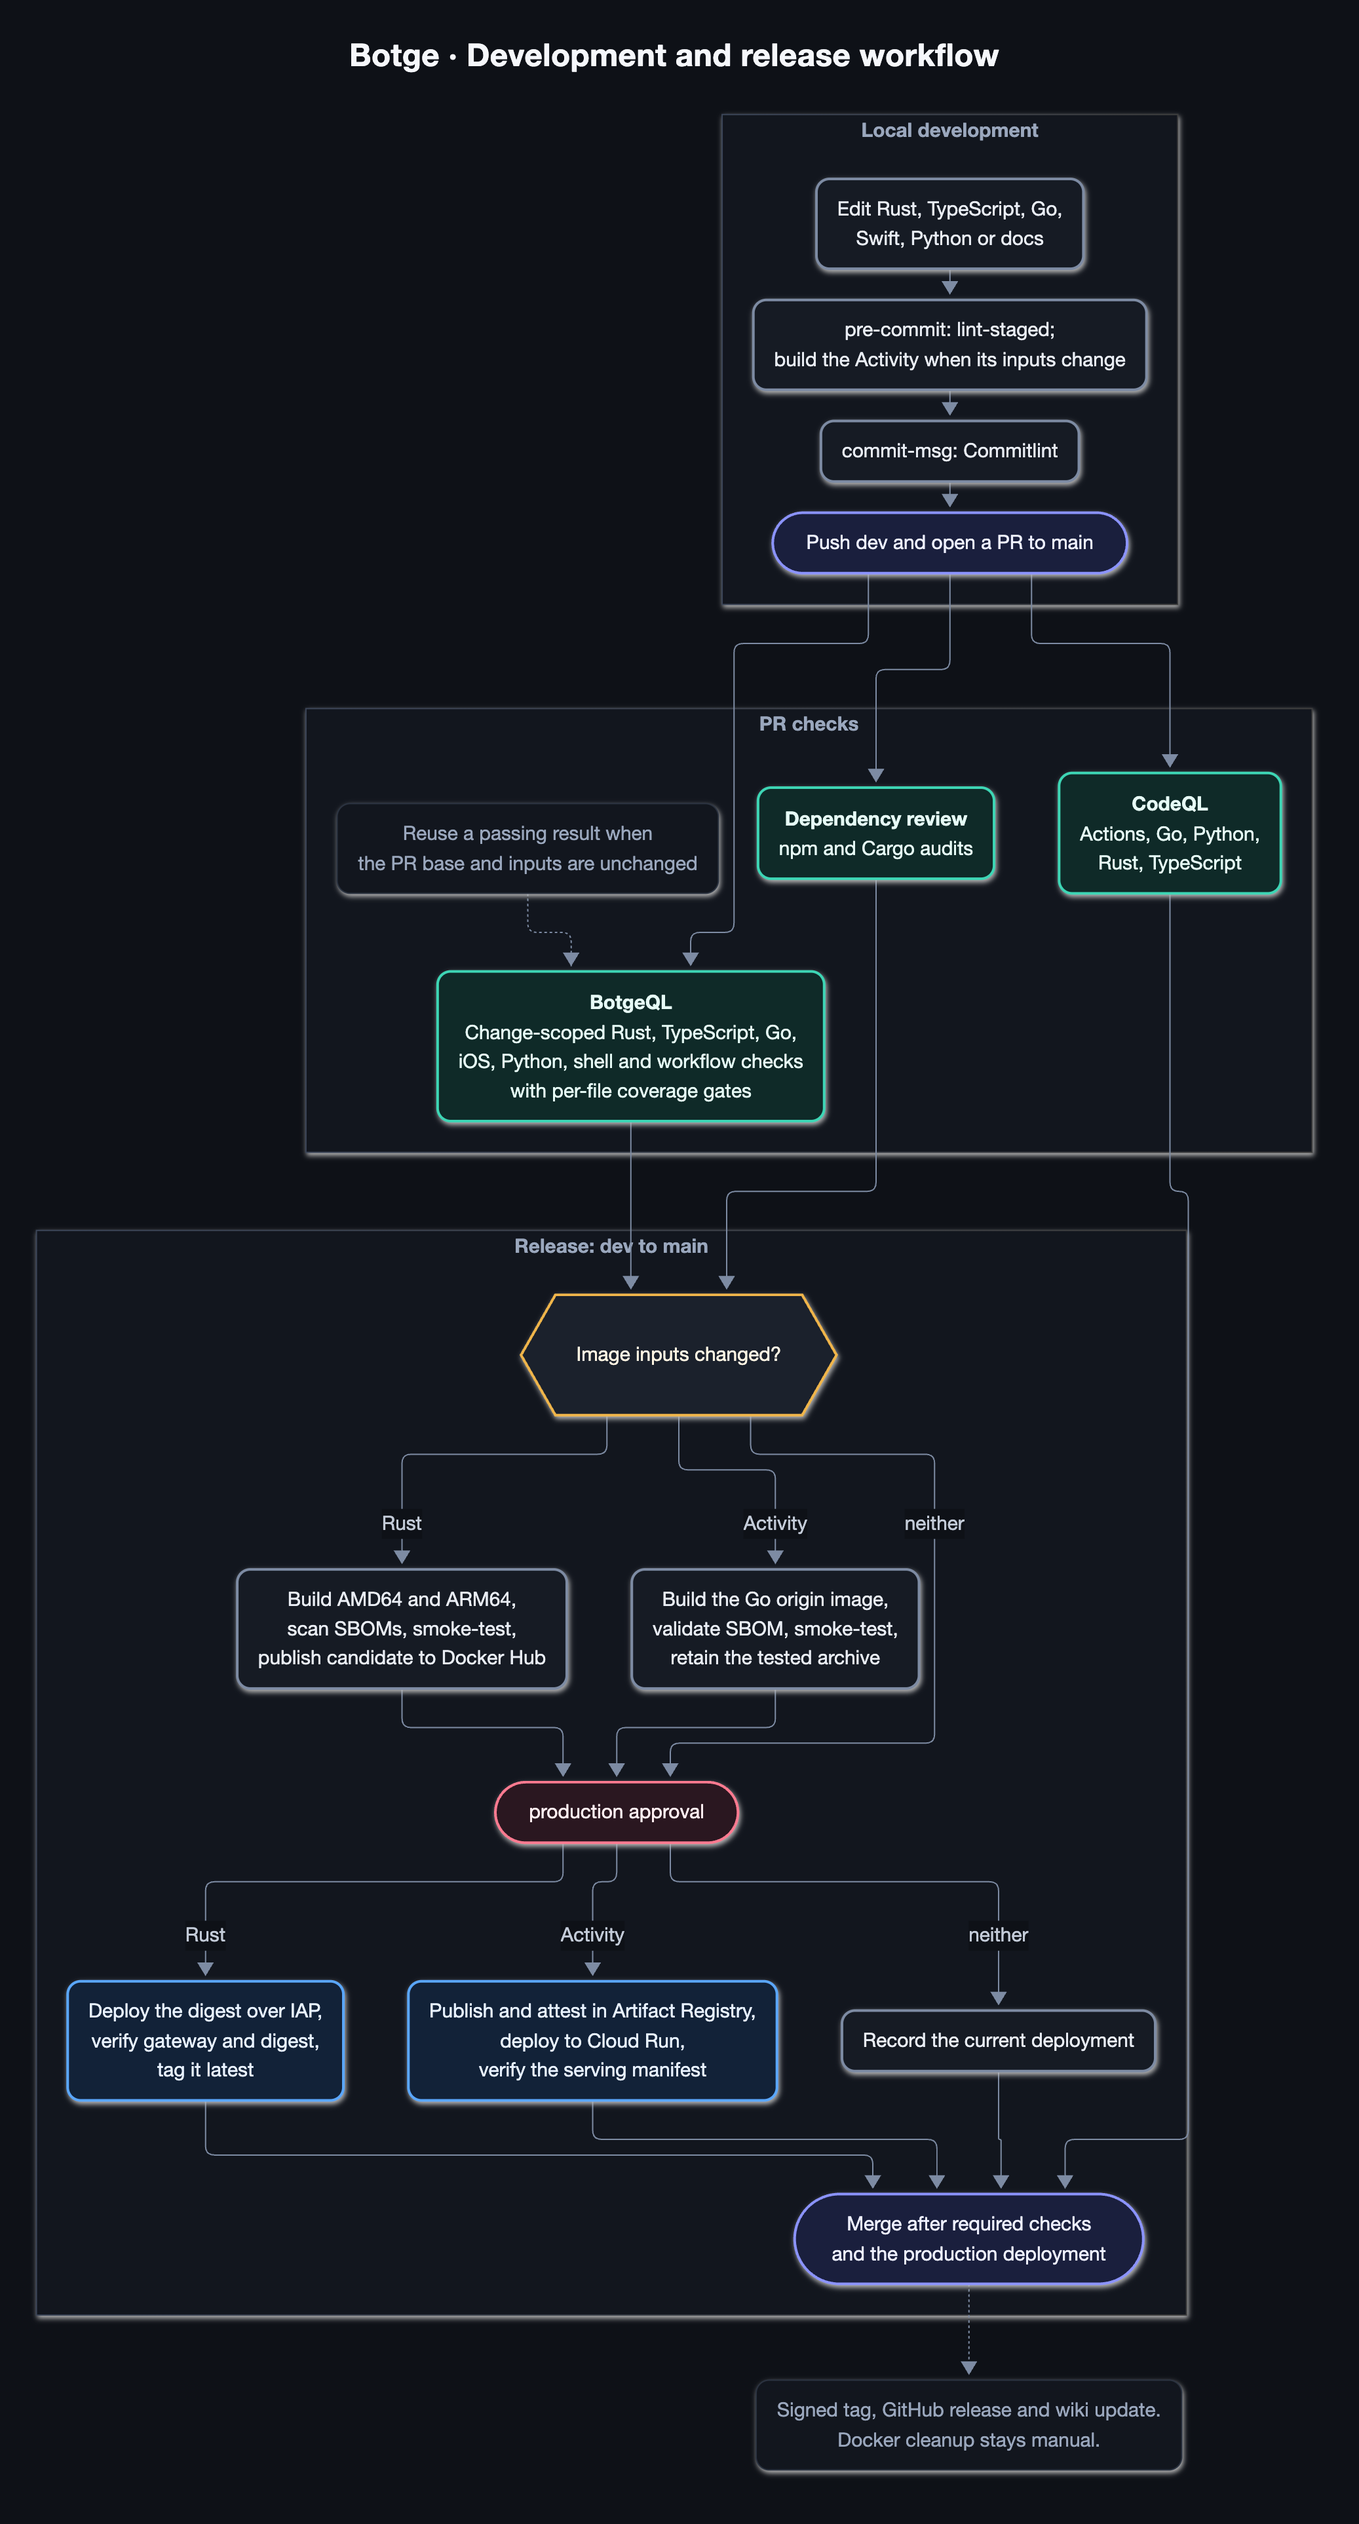
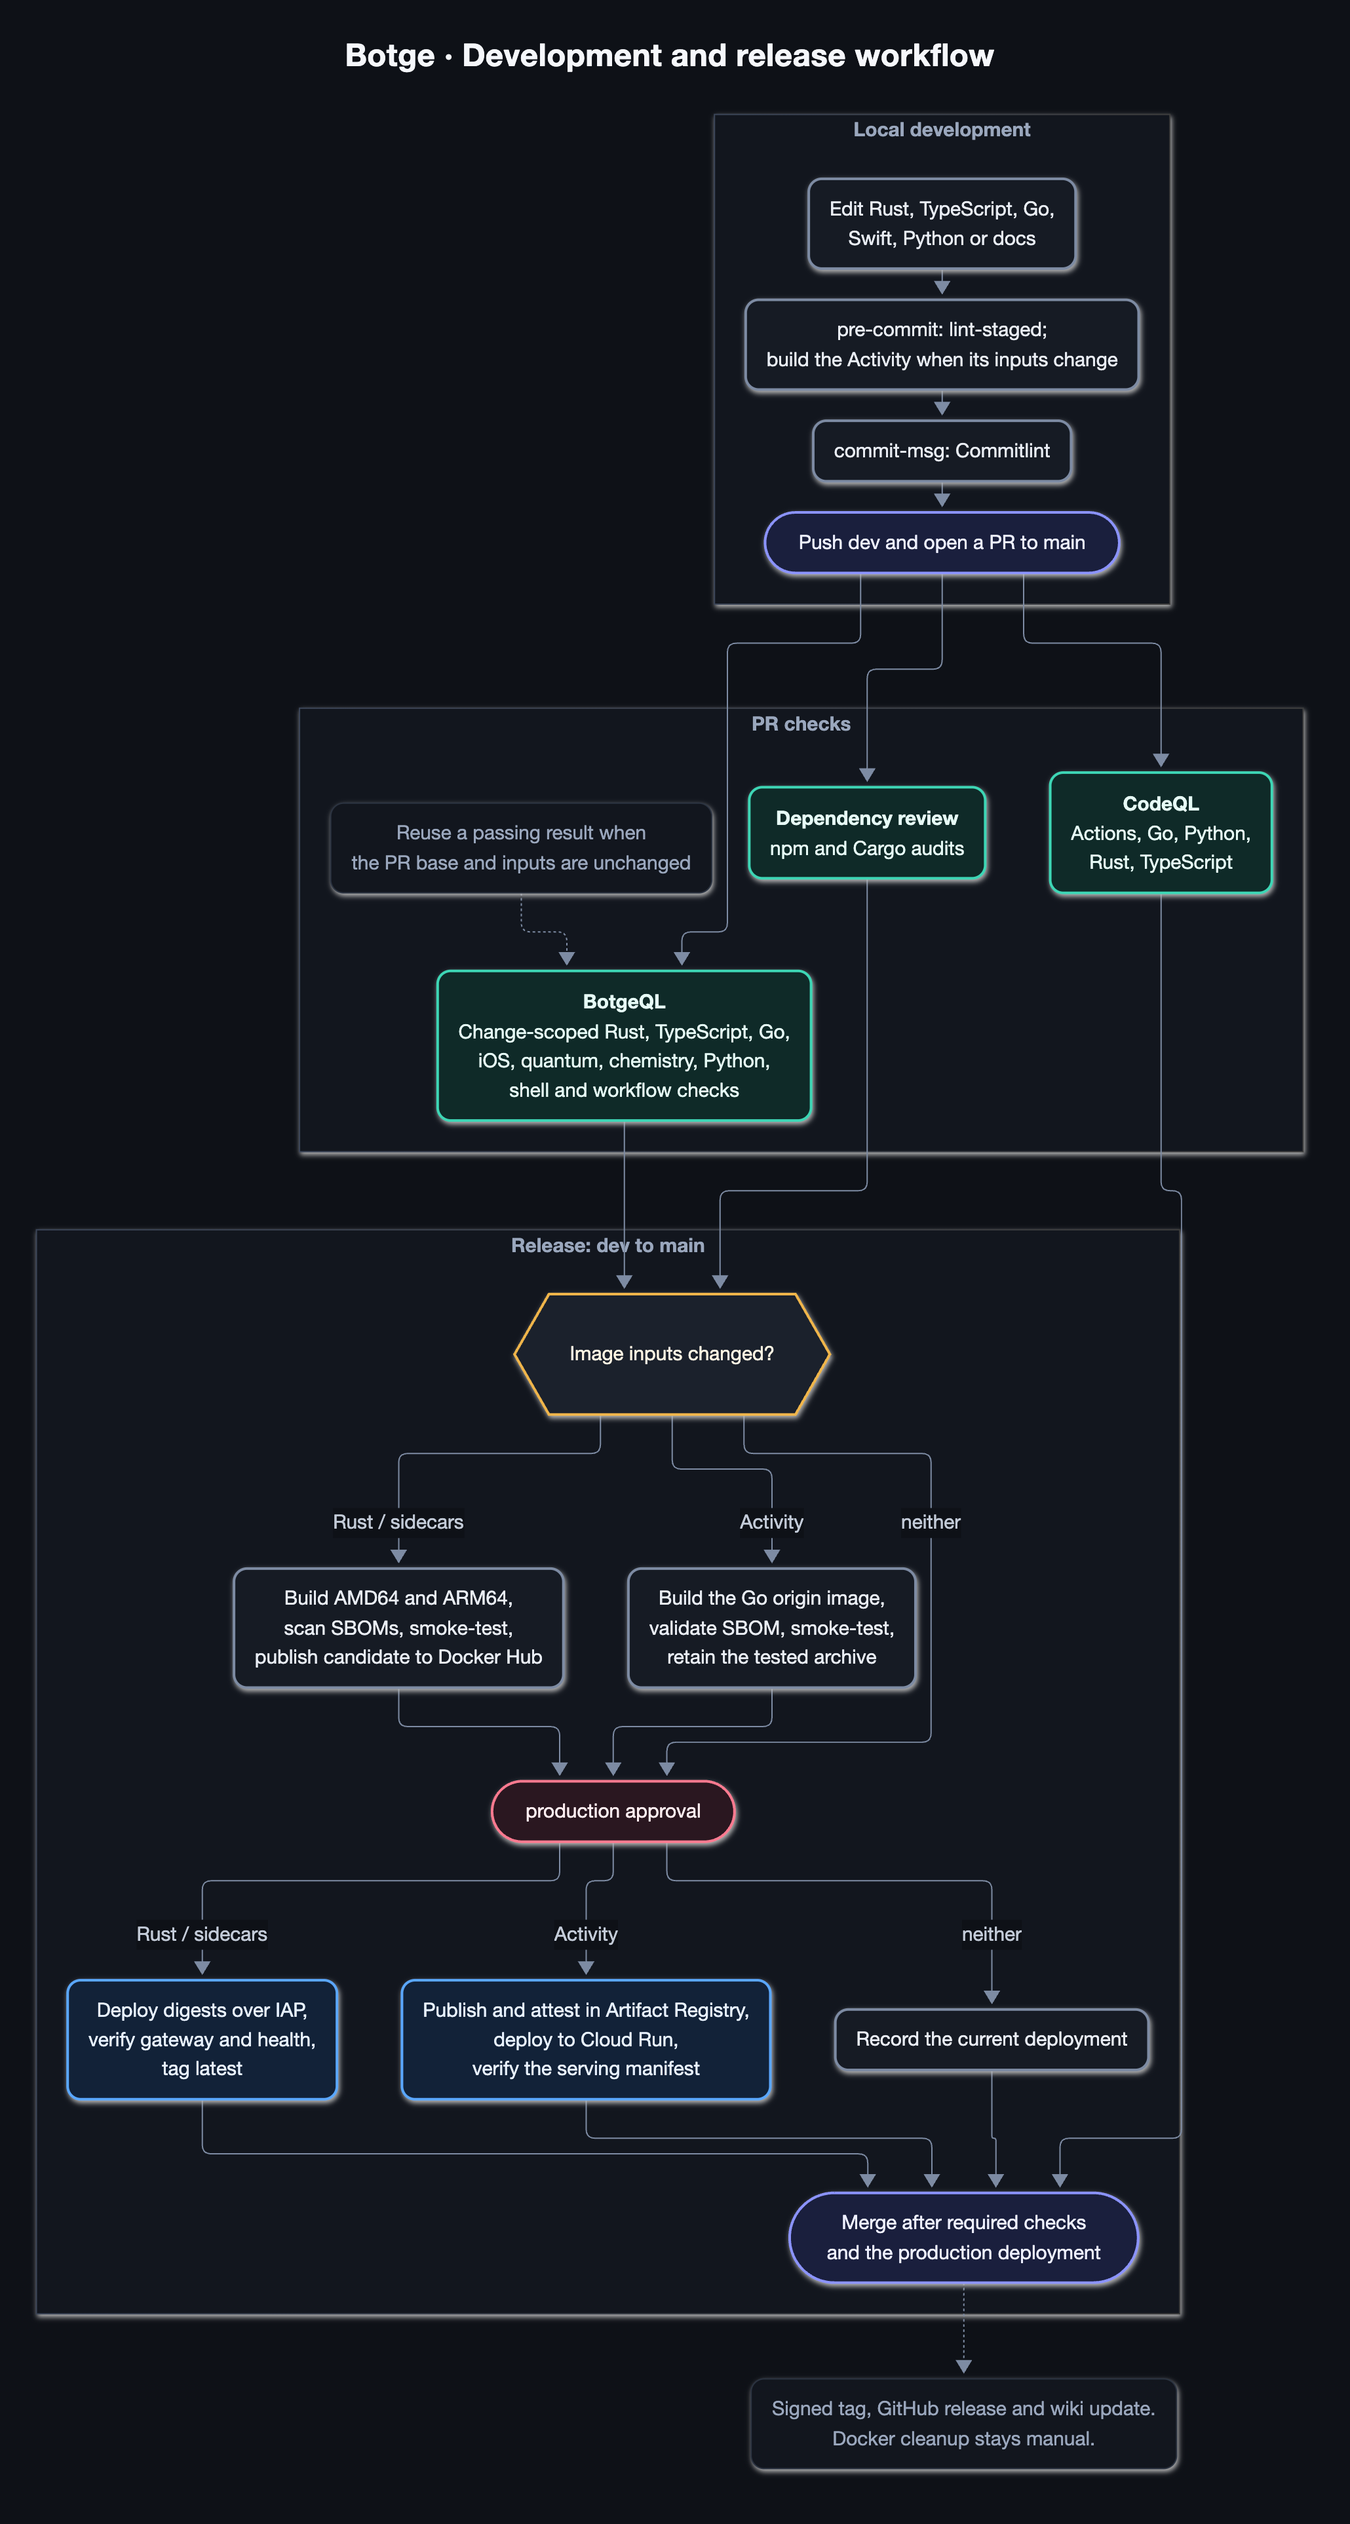
docs(chemistry): update README, guides, and architecture diagrams

diff --git a/docs/ARCHITECTURE.md b/docs/ARCHITECTURE.md
@@ -15,13 +15,13 @@ in [`mermaid.config.json`](diagrams/mermaid.config.json). Edit the source, then 
 - [Request and data flow](request-flow.png) ([source](diagrams/request-flow.mmd)): compositions, the
   Activity page and a settings save.
 - [Production topology](deployment.png) ([source](diagrams/deployment.mmd)): VM services, the
-  optional quantum sidecar, Cloud Run, Discord URL mappings and 7TV.
+  optional quantum and chemistry sidecars, Cloud Run, Discord URL mappings and 7TV.
 - [Development and release workflow](development-workflow.png)
   ([source](diagrams/development-workflow.mmd)): hooks, PR checks, approval and both deploy paths.
 - [Startup and shutdown](startup.png) ([source](diagrams/startup.mmd)): maintenance flags,
   initialization, readiness and exit.
 - [Discord event handling](discord-interactions.png) ([source](diagrams/discord-interactions.mmd)):
-  commands, `/quantum-emote`, autocomplete, modals and prefix messages.
+  commands, `/quantum-emote`, `/react-emote`, autocomplete, modals and prefix messages.
 
 Render every diagram from the repository root with the installed Chrome. `--ignore-scripts` skips
 Puppeteer's browser download, and the Puppeteer configuration widens the layout viewport:
@@ -72,13 +72,20 @@ The larger services separate their internal responsibilities into child modules:
 
 - [`commands.rs`](../crates/botge-discord/src/commands.rs) dispatches to
   [`commands/`](../crates/botge-discord/src/commands/): composition, message prefixes, autocomplete,
-  shortcuts, registration, cleanup, and `/quantum-emote`.
+  shortcuts, registration, cleanup, `/quantum-emote`, and `/react-emote`.
 - [`quantum.rs`](../crates/botge-discord/src/commands/quantum.rs) registers only when
   `BOTGE_QUANTUM_URL` is set. It defers, slices the catalog with
   [`botge-quantum`](../crates/botge-quantum/src/lib.rs), asks the Q# sidecar
   ([quantum guide](../quantum/README.md)) for one accepted shot outside the render permit, and
   renders the drawn pair through `Application::compose_selected`. A failure deletes the deferred
   reply and explains itself ephemerally; nothing is retried or replaced by classical randomness.
+- [`chemistry.rs`](../crates/botge-discord/src/commands/chemistry.rs) registers `/react-emote` only
+  when `BOTGE_CHEMISTRY_URL` is set. It maps each reactant emote's ID to a 32-substrate organic
+  atlas in [`botge-chemistry`](../crates/botge-chemistry/src/lib.rs) with mutual reactant/condition
+  autocomplete, queries the CPU-only RDKit sidecar ([chemistry guide](../chemistry/README.md)),
+  renders reacted pairs via `Application::compose_selected` with the optional `320x120` 2D skeletal
+  PNG sent in a follow-up reply to the emote message (or interaction followup fallback), and deletes
+  the deferred placeholder before explaining incompatible pairs ephemerally without fake reactions.
 - [`activity.rs`](../crates/botge-activity/src/activity.rs) shares authentication and state across
   the voice, catalog, personal border, and guessing game routes in
   [`activity/`](../crates/botge-activity/src/activity/).

diff --git a/AGENTS.md b/AGENTS.md
@@ -45,7 +45,10 @@ The [test guide](tests/README.md) owns check commands, coverage gates, prerequis
 checks a change needs. Run targeted tests for the changed code; run whole suites or coverage gates
 only when asked, since CI runs them. Report failures and checks you could not run. Python helpers
 follow the [helper guide](scripts/README.md); run `.venv/bin/python scripts/setup/doctor.py` after
-environment changes.
+environment changes. Local CodeQL runs use VS Code's CodeQL extension CLI (`~/Library/Application`
+`Support/Code/User/globalStorage/github.vscode-codeql/distribution*/codeql/codeql` on macOS) when
+`codeql` is not on `PATH`; see
+[local workflow checks](.github/workflows/README.md#local-workflow-checks).
 
 ## Pull requests and issues
 
@@ -73,6 +76,8 @@ Auto-assign sets assignees.
 - `crates/botge-activity`: Axum routes, signed proxy input and HTTP response mapping.
 - `crates/botge-voice`: Songbird reconciliation through the application settings source.
 - `crates/botge-quantum`: quantum emote register budget, pool planner and Q# sidecar client.
+- `crates/botge-chemistry`: 32-substrate organic atlas, compatibility bitmasks, pool planner and
+  RDKit sidecar client.
 - `crates/botge-test-support`: development-only loopback, media and log fixtures; keep its features
   off production dependencies.
 - Rust rules for every crate above: [crates/AGENTS.md](crates/AGENTS.md).
@@ -90,7 +95,14 @@ Auto-assign sets assignees.
   workspace crate outside `crates/`); `scripts/quantum/` holds `check_qsharp.py`, the `.tex`
   constant verifier and `check_proofs.py`, which runs the Lean, symbolic, certificate and `.tex`
   checks ([guide](quantum/README.md)).
+- `chemistry/`: CPU-only RDKit organic chemistry sidecar ([guide](chemistry/README.md),
+  [mathematical specification](chemistry/docs/botge-chemistry.tex)).
+- `chemistry/proofs/`: proofs of the chemistry specification: `lean/` (Lean 4,
+  `lake exe audit_axioms`), `symbolic/` (SymPy/Z3) and `certificate/` (`verify_matrix.py`,
+  5,120-triple RDKit check); `scripts/chemistry/` holds `verify_chemistry_tex.py` and
+  `check_chemistry_proofs.py`.
 - `scripts/` and `.agents/scripts/`: Python and shell helpers ([helper guide](scripts/README.md)).
 - `Dockerfile`, `compose.yaml` (bot and nginx), `compose.build.yaml` (local build),
-  `compose.activity.yaml` (loopback API) and `compose.quantum.yaml` (quantum sidecar); read the
-  [control guide](botge_control/README.md) before changing deployment tooling.
+  `compose.activity.yaml` (loopback API), `compose.quantum.yaml` (quantum sidecar) and
+  `compose.chemistry.yaml` (chemistry sidecar); read the [control guide](botge_control/README.md)
+  before changing deployment tooling.

diff --git a/tests/README.md b/tests/README.md
@@ -45,6 +45,10 @@ anything.
 - **`.venv/bin/python scripts/quantum/check_proofs.py`.** Lean build, lint and axiom audit,
   SymPy/Z3, the 414-configuration certificate and `.tex` traceability (requires elan; see the
   [quantum guide](../quantum/README.md#proof-checks))
+- **`.venv/bin/python scripts/chemistry/check_chemistry_proofs.py`.** Chemistry Lean build, lint and
+  axiom audit, SymPy/Z3, the 5,120-triple RDKit certificate, `botge-chemistry` checks and `.tex`
+  traceability (requires elan and `--extra chemistry`; see the
+  [chemistry guide](../chemistry/README.md#checks-and-proofs))
 - **`npm run check:ios`.** SwiftFormat lint and strict SwiftLint
 - **`npm run check:ios:analyze`.** SwiftLint analyzer: unused declarations and imports
 - **`npm run test:ios`.** iOS unit and UI tests, Swift coverage gate
@@ -141,6 +145,10 @@ and coverage gates when asked; CI runs them on every PR.
   to the stages a change touches; add `sh scripts/quality/check-latex.sh` for `.tex` changes, and
   the circuit tests in the [quantum guide](../quantum/README.md#setup-and-checks), which compare the
   Q# simulation with the printed Table 1 and Proposition 5.2 numbers.
+- **`chemistry/` or `crates/botge-chemistry`:** Ruff, Pyright, and pytest with 90% branch coverage
+  on `chemistry/` (`--extra chemistry`), Rust checks (`static`, `coverage`, `miri`) on
+  `botge-chemistry`, `.venv/bin/python scripts/chemistry/check_chemistry_proofs.py`, and
+  `sh scripts/quality/check-latex.sh` for `chemistry/docs/*.tex`.
 
 ## Shell tests
 
@@ -216,10 +224,10 @@ layout, fixtures and the dependency-policy test. `crates/botge/tests/rust_cli.rs
 compiled binary. A subprocess test checks the production panic hook, which exits with status 101.
 
 Miri interprets the pure tests selected in `scripts/rust/check-rust-miri.sh`: Discord ID and voice
-setting validation, Unicode shortcuts, layout arithmetic, WebP timing, and the quantum register
-budget, pool slice, planner, caption and option bounds. Network (including the quantum sidecar
-client), database, audio and FFmpeg paths stay in the coverage suite. Extend the filters when adding
-pure Rust tests.
+setting validation, Unicode shortcuts, layout arithmetic, WebP timing, the quantum register budget,
+pool slice, planner, caption and option bounds, and the chemistry atlas, budget, planner, caption,
+and option bounds. Network (including the sidecar clients), database, audio and FFmpeg paths stay in
+the coverage suite. Extend the filters when adding pure Rust tests.
 
 `cargo-hack` checks feature combinations with development dependencies enabled, so `--locked` keeps
 the committed graph. Optional `test-util` features must stay off in production dependencies.

diff --git a/README.md b/README.md
@@ -77,6 +77,7 @@ Discord Activity, play a guessing game, and manage each server's catalog from th
 | :dart: **Guess**                 | Multiplayer emote guessing in the Activity and the iOS app |
 | :iphone: **iOS app**             | Native SwiftUI app with a Lock Screen Live Activity        |
 | :atom_symbol: **Quantum emotes** | `/quantum-emote` draws a pair from a simulated Q# circuit  |
+| :test_tube: **Chemistry emotes** | `/react-emote` reacts two emotes in an RDKit sidecar       |
 | :wrench: **Server tools**        | Voice status, `/emote-shortcuts` and `/clear-messages`     |
 
 ## Documentation
@@ -97,6 +98,7 @@ The [Botge wiki](https://github.com/MrewyOrg/Botge/wiki) is the main documentati
 | [`activity/`](activity/)           | TypeScript Discord Activity and its signed Go origin     |
 | [`ios/`](ios/)                     | SwiftUI iOS app, `BotgeKit` and the Live Activity widget |
 | [`quantum/`](quantum/)             | Q# circuit, FastAPI sidecar, specification and proofs    |
+| [`chemistry/`](chemistry/)         | RDKit sidecar, 2D diagrams, spec and proofs              |
 | [`botge_control/`](botge_control/) | Debian installation and control scripts                  |
 | [`scripts/`](scripts/)             | Python and shell helpers                                 |
 | [`tests/`](tests/)                 | Cross-language tests and coverage gates                  |
@@ -104,8 +106,8 @@ The [Botge wiki](https://github.com/MrewyOrg/Botge/wiki) is the main documentati
 Implementation details stay versioned with the code:
 
 - [Architecture](docs/ARCHITECTURE.md) and the [Rust workspace guide](crates/README.md)
-- [Activity guide](activity/README.md), [iOS guide](ios/README.md) and
-  [quantum setup and VS Code guide](quantum/README.md)
+- [Activity guide](activity/README.md), [iOS guide](ios/README.md),
+  [quantum setup and VS Code guide](quantum/README.md) and [chemistry guide](chemistry/README.md)
 - [Tests and coverage](tests/README.md) and [helper scripts](scripts/README.md)
 - [GitHub workflows](.github/workflows/README.md) for validation and approved deployment
 - [Production contracts](docs/PRODUCTION.md) for readiness, image verification and recovery

diff --git a/docs/PRODUCTION.md b/docs/PRODUCTION.md
@@ -29,12 +29,13 @@ The private listener defaults to `127.0.0.1:3081` and starts without Activity cr
 | `/metrics` | Prometheus text counters since the process started.                              |
 
 `/metrics` reports Discord commands by name, compositions by outcome (`image`, `rejected`, `busy`,
-`error`), quantum emote sidecar sample outcomes (`botge_quantum_samples_total{outcome}`), a
-render-time histogram for successful compositions, Activity API responses by route and status, 7TV
-event stream reconnects, gateway readiness, and the running version. Labels come from fixed sets, so
-the series count stays bounded. Counters reset on restart. No metrics service is required; read it
-from the host with `docker compose exec botge wget -qO- http://127.0.0.1:3081/metrics`, or point a
-self-hosted Prometheus at it on a private network.
+`error`), quantum emote sidecar sample outcomes (`botge_quantum_samples_total{outcome}`), chemistry
+sidecar reaction outcomes (`botge_chemistry_reactions_total{outcome}`), a render-time histogram for
+successful compositions, Activity API responses by route and status, 7TV event stream reconnects,
+gateway readiness, and the running version. Labels come from fixed sets, so the series count stays
+bounded. Counters reset on restart. No metrics service is required; read it from the host with
+`docker compose exec botge wget -qO- http://127.0.0.1:3081/metrics`, or point a self-hosted
+Prometheus at it on a private network.
 
 Compose runs `--healthcheck` against `/readyz` every ten seconds, with a two-second request timeout,
 a 30-second startup grace period, and six consecutive failures before marking the container

diff --git a/crates/README.md b/crates/README.md
@@ -12,9 +12,10 @@ botge — configuration, startup, health and dependency wiring
 ├── botge-app — authorized operations and composition admission
 │   ├── botge-storage → botge-domain
 │   └── botge-emotes → botge-domain
-├── botge-discord → botge-app, botge-domain, botge-quantum
+├── botge-discord → botge-app, botge-chemistry, botge-domain, botge-quantum
 ├── botge-activity → botge-app, botge-domain
 ├── botge-voice → botge-app, botge-domain
+├── botge-chemistry → botge-domain
 └── botge-quantum → botge-domain
 botge-quantum-certificate — proof tooling; tests against botge-quantum (dev-dependency only)
 ```

diff --git a/scripts/README.md b/scripts/README.md
@@ -4,6 +4,8 @@ Shared checks live here; agent-only reference and benchmark helpers remain in `.
 Rust check scopes and prerequisites are described in the [test guide](../tests/README.md).
 
 - **`activity/`.** Activity origin asset staging and Go checks
+- **`chemistry/`.** Organic chemistry proof checks: Lean, SymPy/Z3, the exhaustive RDKit
+  certificate, `botge-chemistry` checks and `.tex` traceability
 - **`ios/`.** Xcode checks, simulator tests, Swift documentation, and Swift tool setup
 - **`operations/`.** Compose and GitHub backups, the deploy client, and the backup LaunchAgent
   template
